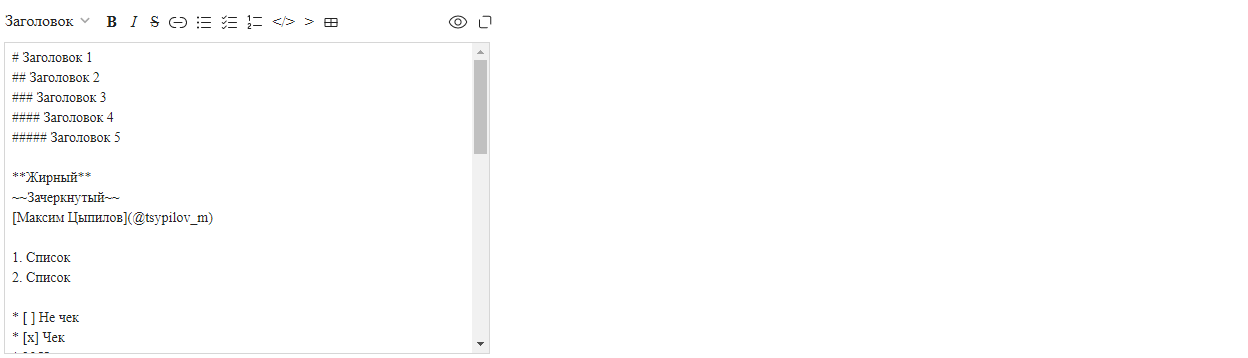
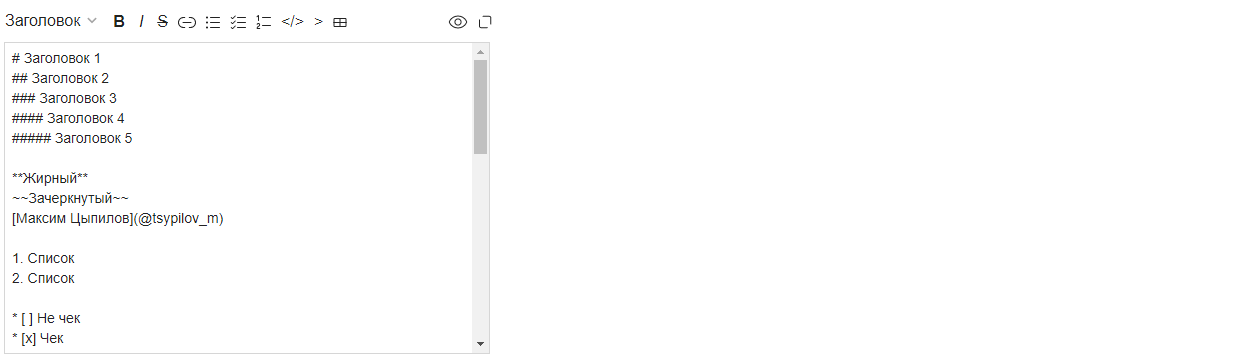
Fix replaced text

diff --git a/.storybook/helpers.tsx b/.storybook/helpers.tsx
@@ -3,8 +3,16 @@ import { StoryContext } from '@storybook/react';
 import { CSSProperties } from 'react';
 import { DEFAULT_MARKDOWN_THEME } from '../src/styles/theme';
 import React from 'react';
+import { createGlobalStyle } from 'styled-components';
 
 const style: CSSProperties = { padding: 4, boxSizing: 'border-box' };
+
+const GlobalStyles = createGlobalStyle`
+  body {
+    font-family: "Lab Grotesque", -apple-system, BlinkMacSystemFont, "Roboto", "Oxygen", "Ubuntu", "Cantarell", "Fira Sans",
+      "Droid Sans", "Helvetica Neue", sans-serif;
+  }
+`;
 
 export const storyBookMainDecorators = (story: Function, context?: StoryContext) => {
   const globalTheme = context?.globals?.theme;
@@ -12,6 +20,7 @@ export const storyBookMainDecorators = (story: Function, context?: StoryContext)
 
   return (
     <MarkdownThemeProvider theme={theme}>
+      <GlobalStyles />
       <div id="test-element" style={style}>
         {story()}
       </div>

diff --git a/.storybook/preview-head.html b/.storybook/preview-head.html
@@ -1,1 +1,9 @@
-<link rel="stylesheet" href="https://s.kontur.ru/common-v2/fonts/LabGrotesque/LabGrotesque.css" />
+<link
+        rel="preload" href="https://s.kontur.ru/common-v2/fonts/LabGrotesque/LabGrotesque-Regular.woff2" as="font"
+        type="font/woff2" crossorigin="anonymous"/>
+<link
+        rel="preload" href="https://s.kontur.ru/common-v2/fonts/LabGrotesque/LabGrotesque-Medium.woff2" as="font"
+        type="font/woff2" crossorigin="anonymous"/>
+<link
+        rel="preload" href="https://s.kontur.ru/common-v2/fonts/LabGrotesque/LabGrotesque-Bold.woff2" as="font"
+        type="font/woff2" crossorigin="anonymous"/>

diff --git a/src/Markdown/MarkdownHelpItems.tsx b/src/Markdown/MarkdownHelpItems.tsx
@@ -67,7 +67,8 @@ export function checkSpaceSymbol(text: string, checkedLength?: number) {
   if (latestSymbol.match(spacesMatchRegexp) && checkedLength) {
     const substringText = reverseString(text).split(spacesSplitRegexp);
     const spaces = substringText[1];
-    const textWithoutSpaces = substringText[2];
+    const remainingText = substringText.slice(2);
+    const textWithoutSpaces = remainingText.join('');
     const reversed = reverseString(textWithoutSpaces);
 
     return { value: reversed, spaces: reverseString(spaces) };

diff --git a/.storybook/main.js b/.storybook/main.js
@@ -15,4 +15,21 @@ module.exports = {
     check: false,
     reactDocgen: false,
   },
+  webpackFinal: async config => {
+    config.module.rules.push(
+      ...[
+        {
+          test: /\.(eot|woff|woff2|svg|ttf)$/,
+          use: {
+            loader: 'file-loader',
+            options: {
+              esModule: false,
+            },
+          },
+        },
+      ],
+    );
+
+    return config;
+  },
 };
